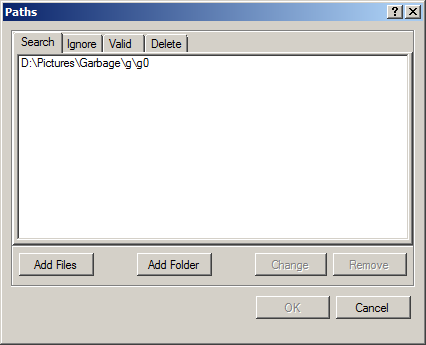
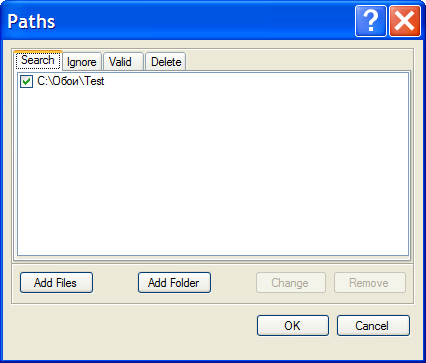
*edit russian help, delete option searchSubFolders, fix strings in vertical pair mode

diff --git a/data/help/english/start.html b/data/help/english/start.html
@@ -37,7 +37,7 @@ This will open the <a href="index.html?page=paths.html" target="_top">Paths Wind
 <img src="files/PathsForm.png" />
 
 <p align="justify">
-In this window on the <b>Search</b> tab you should select a directory with pictures, in which you want to search.
+In this window on the <b>Search</b> tab you should select a directory with pictures, in which you want to search. Checked box mean search inside subdirectories this directories.
 After this, click <b>OK</b>, back to the main window and click the <b>Start Search</b> button
 </p>   
 

diff --git a/src/AntiDupl/AntiDupl.NET/CoreOptionsForm.cs b/src/AntiDupl/AntiDupl.NET/CoreOptionsForm.cs
@@ -89,7 +89,6 @@ namespace AntiDupl.NET
         private CheckBox m_tgaCheckBox;
         private CheckBox m_searchSystemCheckBox;
         private CheckBox m_searchHiddenCheckBox;
-        private CheckBox m_searchSubFoldersCheckBox;
 
         private TabPage m_advancedTabPage;
         private CheckBox m_deleteToRecycleBinCheckBox;
@@ -300,9 +299,6 @@ namespace AntiDupl.NET
 
             m_searchHiddenCheckBox = InitFactory.CheckBox.Create(OnOptionChanged);
             searchTableLayoutPanel.Controls.Add(m_searchHiddenCheckBox, 0, 2);
-
-            m_searchSubFoldersCheckBox = InitFactory.CheckBox.Create(OnOptionChanged);
-            searchTableLayoutPanel.Controls.Add(m_searchSubFoldersCheckBox, 0, 3);
         }
 
         private void InitilizeAdvancedTabPage()
@@ -394,7 +390,6 @@ namespace AntiDupl.NET
             m_tgaCheckBox.Checked = m_newCoreOptions.searchOptions.TGA;
             m_searchSystemCheckBox.Checked = m_newCoreOptions.searchOptions.system;
             m_searchHiddenCheckBox.Checked = m_newCoreOptions.searchOptions.hidden;
-            m_searchSubFoldersCheckBox.Checked = m_newCoreOptions.searchOptions.subFolders;
 
             m_deleteToRecycleBinCheckBox.Checked = m_newCoreOptions.advancedOptions.deleteToRecycleBin;
             m_mistakeDataBaseCheckBox.Checked = m_newCoreOptions.advancedOptions.mistakeDataBase;
@@ -441,7 +436,6 @@ namespace AntiDupl.NET
             m_newCoreOptions.searchOptions.TGA = m_tgaCheckBox.Checked;
             m_newCoreOptions.searchOptions.system = m_searchSystemCheckBox.Checked;
             m_newCoreOptions.searchOptions.hidden = m_searchHiddenCheckBox.Checked;
-            m_newCoreOptions.searchOptions.subFolders = m_searchSubFoldersCheckBox.Checked;
 
             m_newCoreOptions.advancedOptions.deleteToRecycleBin = m_deleteToRecycleBinCheckBox.Checked;
             m_newCoreOptions.advancedOptions.mistakeDataBase = m_mistakeDataBaseCheckBox.Checked;
@@ -499,7 +493,6 @@ namespace AntiDupl.NET
             m_tgaCheckBox.Text = s.CoreOptionsForm_TgaCheckBox_Text;
             m_searchSystemCheckBox.Text = s.CoreOptionsForm_SearchSystemCheckBox_Text;
             m_searchHiddenCheckBox.Text = s.CoreOptionsForm_SearchHiddenCheckBox_Text;
-            m_searchSubFoldersCheckBox.Text = s.CoreOptionsForm_SearchSubFoldersCheckBox_Text;
 
             m_advancedTabPage.Text = s.CoreOptionsForm_AdvancedTabPage_Text;
             m_deleteToRecycleBinCheckBox.Text = s.CoreOptionsForm_DeleteToRecycleBinCheckBox_Text;

diff --git a/src/AntiDupl/AntiDupl.NET/ResultsListView.cs b/src/AntiDupl/AntiDupl.NET/ResultsListView.cs
@@ -171,16 +171,16 @@ namespace AntiDupl.NET
                 Columns[(int)ColumnsTypeHorizontal.FirstFileDirectory].Name = s.ResultsListView_FirstFileDirectory_Column_Text;
                 Columns[(int)ColumnsTypeHorizontal.FirstImageSize].Name = s.ResultsListView_FirstImageSize_Column_Text;
                 Columns[(int)ColumnsTypeHorizontal.FirstImageType].Name = s.ResultsListView_FirstImageType_Column_Text;
-                Columns[(int)ColumnsTypeHorizontal.FirstBlockiness].Name = s.ResultsListView_Blockiness_Column_Text;
-                Columns[(int)ColumnsTypeHorizontal.FirstBlurring].Name = s.ResultsListView_Blurring_Column_Text;
+                Columns[(int)ColumnsTypeHorizontal.FirstBlockiness].Name = s.ResultsListView_FirstBlockiness_Column_Text;
+                Columns[(int)ColumnsTypeHorizontal.FirstBlurring].Name = s.ResultsListView_FirstBlurring_Column_Text;
                 Columns[(int)ColumnsTypeHorizontal.FirstFileSize].Name = s.ResultsListView_FirstFileSize_Column_Text;
                 Columns[(int)ColumnsTypeHorizontal.FirstFileTime].Name = s.ResultsListView_FirstFileTime_Column_Text;
                 Columns[(int)ColumnsTypeHorizontal.SecondFileName].Name = s.ResultsListView_SecondFileName_Column_Text;
                 Columns[(int)ColumnsTypeHorizontal.SecondFileDirectory].Name = s.ResultsListView_SecondFileDirectory_Column_Text;
                 Columns[(int)ColumnsTypeHorizontal.SecondImageSize].Name = s.ResultsListView_SecondImageSize_Column_Text;
                 Columns[(int)ColumnsTypeHorizontal.SecondImageType].Name = s.ResultsListView_SecondImageType_Column_Text;
-                Columns[(int)ColumnsTypeHorizontal.SecondBlockiness].Name = s.ResultsListView_Blockiness_Column_Text;
-                Columns[(int)ColumnsTypeHorizontal.SecondBlurring].Name = s.ResultsListView_Blurring_Column_Text;
+                Columns[(int)ColumnsTypeHorizontal.SecondBlockiness].Name = s.ResultsListView_SecondBlockiness_Column_Text;
+                Columns[(int)ColumnsTypeHorizontal.SecondBlurring].Name = s.ResultsListView_SecondBlurring_Column_Text;
                 Columns[(int)ColumnsTypeHorizontal.SecondFileSize].Name = s.ResultsListView_SecondFileSize_Column_Text;
                 Columns[(int)ColumnsTypeHorizontal.SecondFileTime].Name = s.ResultsListView_SecondFileTime_Column_Text;
             }

diff --git a/src/AntiDupl/AntiDupl/adOptions.cpp b/src/AntiDupl/AntiDupl/adOptions.cpp
@@ -71,7 +71,6 @@ namespace ad
         validPaths(TEXT("ValidPaths")),
         deletePaths(TEXT("DeletePaths"))
     {
-        m_options.push_back(TOption(&search.subFolders, TEXT("SearchOptions"), TEXT("SubFolders"), TRUE, FALSE, TRUE));
         m_options.push_back(TOption(&search.system, TEXT("SearchOptions"), TEXT("System"), FALSE, FALSE, TRUE));
         m_options.push_back(TOption(&search.hidden, TEXT("SearchOptions"), TEXT("Hidden"), FALSE, FALSE, TRUE));
         m_options.push_back(TOption(&search.JPEG, TEXT("SearchOptions"), TEXT("JPEG"), TRUE, FALSE, TRUE));
@@ -100,7 +99,7 @@ namespace ad
         m_options.push_back(TOption(&defect.checkOnBlockiness, TEXT("DefectOptions"), TEXT("CheckOnBlockiness"), TRUE, FALSE, TRUE));
         m_options.push_back(TOption(&defect.blockinessThreshold, TEXT("DefectOptions"), TEXT("BlockinessThreshold"), 10, 0, 100));
 		m_options.push_back(TOption(&defect.checkOnBlockinessOnlyNotJpeg, TEXT("DefectOptions"), TEXT("CheckOnBlockinessOnlyNotJpeg"), FALSE, FALSE, TRUE));
-        m_options.push_back(TOption(&defect.checkOnBlurring, TEXT("DefectOptions"), TEXT("CheckOnBlurring"), TRUE, FALSE, TRUE));
+        m_options.push_back(TOption(&defect.checkOnBlurring, TEXT("DefectOptions"), TEXT("CheckOnBlurring"), FALSE, FALSE, TRUE));
         m_options.push_back(TOption(&defect.blurringThreshold, TEXT("DefectOptions"), TEXT("BlurringThreshold"), 4, 0, 32));
 
         m_options.push_back(TOption(&advanced.deleteToRecycleBin, TEXT("AdvancedOptions"), TEXT("DeleteToRecycleBin"), TRUE, FALSE, TRUE));

diff --git a/src/AntiDupl/AntiDupl.NET/CoreSearchOptions.cs b/src/AntiDupl/AntiDupl.NET/CoreSearchOptions.cs
@@ -67,7 +67,6 @@ namespace AntiDupl.NET
 
         public CoreSearchOptions(CoreSearchOptions searchOptions)
         {
-            subFolders = searchOptions.subFolders;
             system = searchOptions.system;
             hidden = searchOptions.hidden;
             JPEG = searchOptions.JPEG;
@@ -87,7 +86,6 @@ namespace AntiDupl.NET
 
         public CoreSearchOptions(CoreDll.adSearchOptions searchOptions)
         {
-            subFolders = searchOptions.subFolders != CoreDll.FALSE;
             system = searchOptions.system != CoreDll.FALSE;
             hidden = searchOptions.hidden != CoreDll.FALSE;
             JPEG = searchOptions.JPEG != CoreDll.FALSE;
@@ -107,7 +105,6 @@ namespace AntiDupl.NET
 
         public void ConvertTo(ref CoreDll.adSearchOptions searchOptions)
         {
-            searchOptions.subFolders = subFolders ? CoreDll.TRUE : CoreDll.FALSE;
             searchOptions.system = system ? CoreDll.TRUE : CoreDll.FALSE;
             searchOptions.hidden = hidden ? CoreDll.TRUE : CoreDll.FALSE;
             searchOptions.JPEG = JPEG ? CoreDll.TRUE : CoreDll.FALSE;
@@ -133,7 +130,6 @@ namespace AntiDupl.NET
         public bool Equals(CoreSearchOptions searchOptions)
         {
             return
-                subFolders == searchOptions.subFolders &&
                 system == searchOptions.system &&
                 hidden == searchOptions.hidden &&
                 JPEG == searchOptions.JPEG &&
